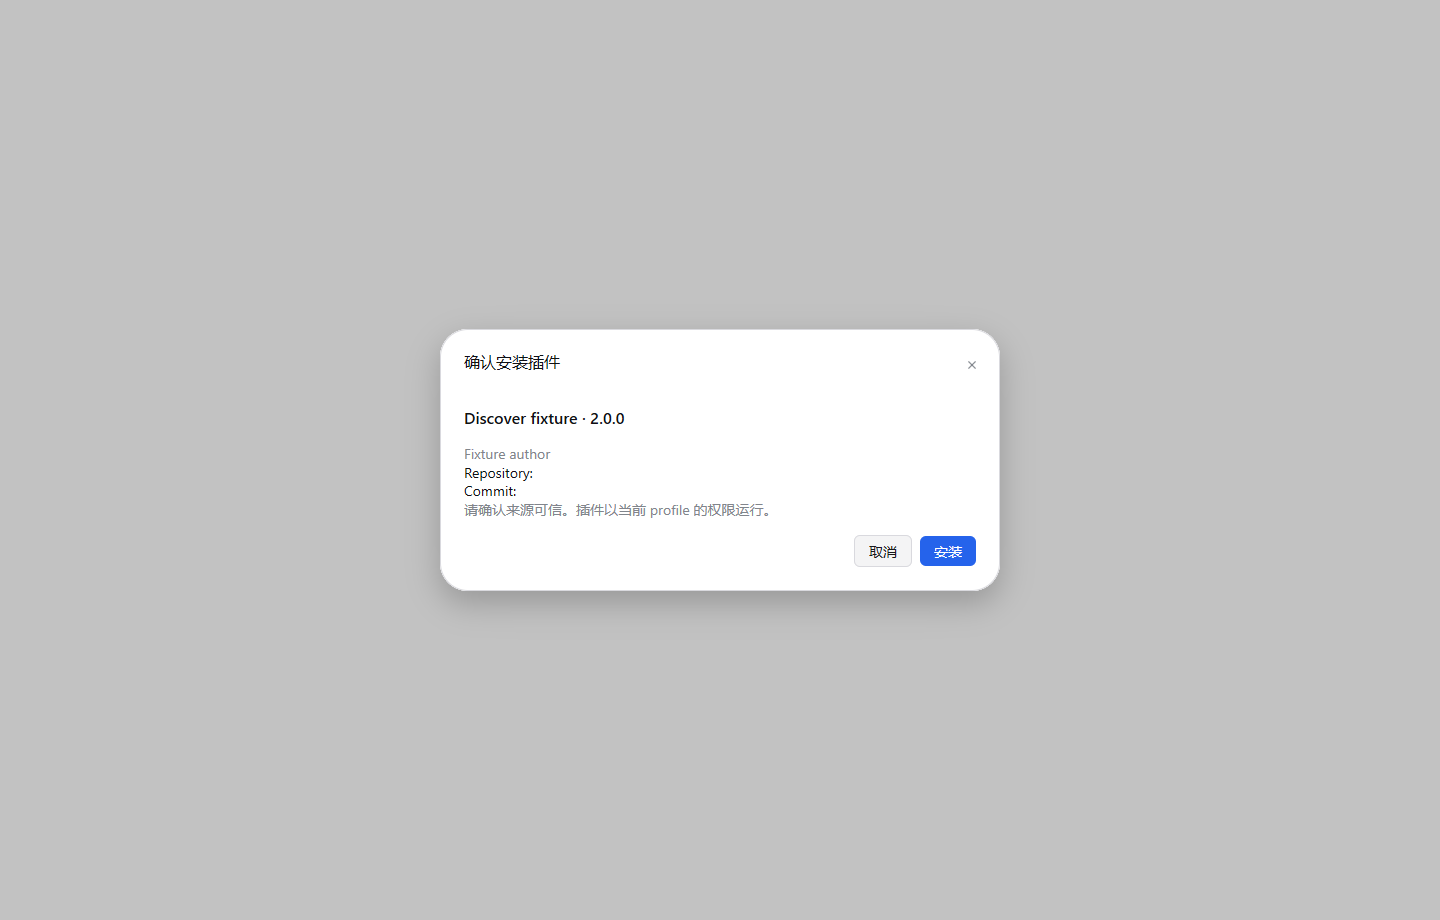
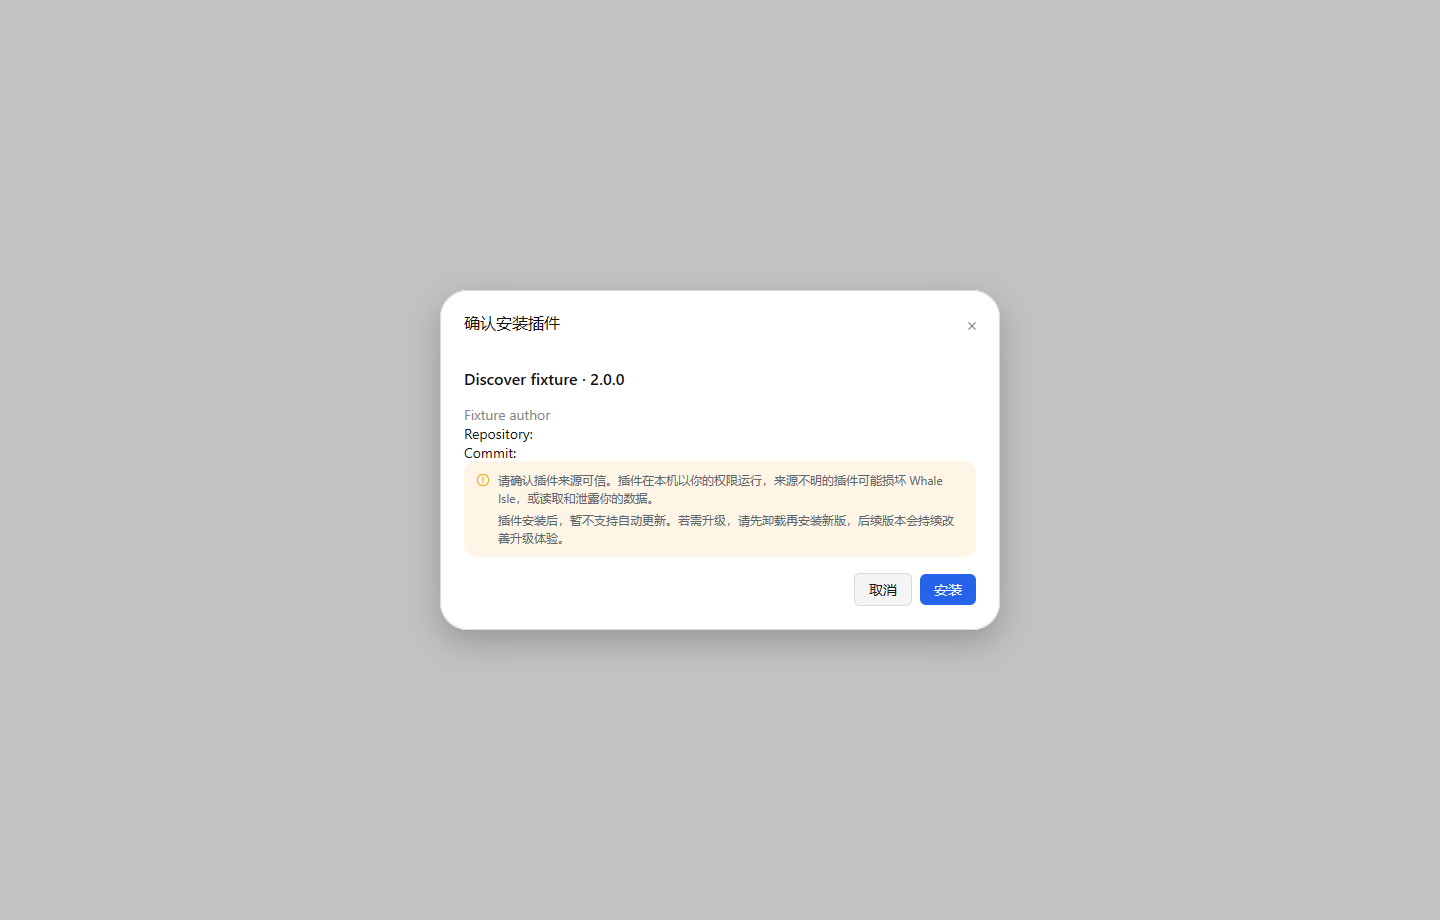
fix: warn the market card with the reference's trust panel

Changed region(s): [[0.2812, 0.3043, 0.7188, 0.7]]

diff --git a/internal/ui/pluginmanager/install_card_footer_test.go b/internal/ui/pluginmanager/install_card_footer_test.go
@@ -284,6 +284,66 @@ func TestInstallFooterReadsCheckingWhileTheSpecChecks(t *testing.T) {
 	}
 }
 
+// marketChoiceFixture renders the native market confirmation card over the
+// shared backdrop, as the market's install button opens it.
+func marketChoiceFixture(t *testing.T) *ui.Tester {
+	t.Helper()
+	m := pageModel(t)
+	s := m.Controller.Snapshot()
+	entry := manager.MarketEntry{Name: "fixture-discover", Title: manager.Text(`"Discover fixture"`),
+		Description: manager.Text(`"A source-backed entry with exact install versions."`), Author: "Fixture author", DefaultVersion: "2.0.0"}
+	entry.Installation.Status = "not-installed"
+	version := manager.MarketVersion{Version: "2.0.0", Compatibility: manager.Compatibility{Compatible: true}}
+	version.Install.Spec = "fixture-discover@2.0.0"
+	entry.Versions = []manager.MarketVersion{version}
+	s.Discover.Choice = &manager.MarketChoice{Entry: entry, Version: version}
+	return pluginDialogFixture(t, func(c *ui.Context) {
+		marketChoiceDialog(c, m, s, m.Controller.Actions(s.Owner))
+	}, 1440, 920)
+}
+
+// TestMarketChoiceCarriesTheReferenceSafetyNote covers the two install cards
+// speaking in one voice: the native market confirmation used to warn with a
+// one-line sentence of its own ("请确认来源可信。插件以当前 profile 的权限运行。")
+// while the spec screen warned with the reference's `.installSafety` panel. It
+// now shows the same panel and the same reference copy.
+func TestMarketChoiceCarriesTheReferenceSafetyNote(t *testing.T) {
+	tt := marketChoiceFixture(t)
+	card, ok := tt.Find(copyText("确认安装插件", "Confirm plugin installation"))
+	if !ok {
+		t.Fatalf("the market choice card is missing: %v", tt.Texts())
+	}
+	safety, upgrade := installSafetyCopy()
+	note, ok := tt.Find(safety)
+	if !ok {
+		t.Fatalf("the market card lost the reference's trust note: %v", tt.Texts())
+	}
+	if !tt.HasText(upgrade) {
+		t.Fatalf("the market card lost the upgrade notice: %v", tt.Texts())
+	}
+	if tt.HasText("请确认来源可信。插件以当前 profile 的权限运行。") {
+		t.Fatalf("the market card still warns with its own one-line sentence: %v", tt.Texts())
+	}
+
+	// The body's 24 DIP inset, then the note's 12 DIP padding, 8 DIP gap and the
+	// 14 DIP glyph: the copy starts 58 DIP into the card, as in the footer.
+	if inset := note.X - card.X; math.Abs(float64(inset-58)) > 1 {
+		t.Fatalf("the market note's copy starts %.1f DIP into the card, want 24 + 12 + 8 + 14 = 58", inset)
+	}
+	// The panel fills the body's 512 DIP of content width: the copy is that
+	// width, less the note's 12/12 padding, the 8 DIP gap and the 14 DIP glyph.
+	if math.Abs(float64(note.W-466)) > 1 {
+		t.Fatalf("the market note's copy is %.1f DIP wide, want 466 (512 - 12 - 12 - 8 - 14)", note.W)
+	}
+	// The panel paints the warn tint at its left edge and leaves the corner.
+	img := tt.Image()
+	panelLeft := card.X + 24
+	mid := img.At(int(panelLeft+2), int(note.Y-10+12))
+	if !closeTo(mid, color.RGBA{254, 245, 231, 255}) {
+		t.Fatalf("the market note paints %v at its left edge, want the reference's warn tint rgb(254, 245, 231)", mid)
+	}
+}
+
 // TestInstallFooterIsAbsentFromTheLogScreen keeps the footer to the spec screen:
 // the installing, installed and failed screens carry their own actions, as the
 // reference's wizard does (PluginManagerPage.tsx:930-974).

diff --git a/internal/ui/pluginmanager/dialogs.go b/internal/ui/pluginmanager/dialogs.go
@@ -316,7 +316,11 @@ func marketChoiceDialog(c *ui.Context, m Model, s manager.State, a manager.Actio
 					if !choice.Version.Compatibility.Compatible {
 						ui.Text(c, copyText("此版本具有兼容性风险豁免。", "This version has a compatibility risk exemption.")).FillWidth().TextColor(c.Theme().Warning)
 					}
-					ui.Text(c, copyText("请确认来源可信。插件以当前 profile 的权限运行。", "Confirm the source is trusted. Plugins run with this profile's permissions.")).FillWidth().TextColor(muted)
+					// This card has no reference counterpart (the market is
+					// native), so its trust line borrows the spec screen's
+					// `.installSafety` panel rather than a second, weaker
+					// sentence: both install cards then warn in one voice.
+					installSafetyNote(c)
 				})
 				ui.Row(c).FillWidth().Wrap().Justify(ui.End).Gap(8).Children(func() {
 					if ui.Button(c, copyText("取消", "Cancel")).Clicked() {
